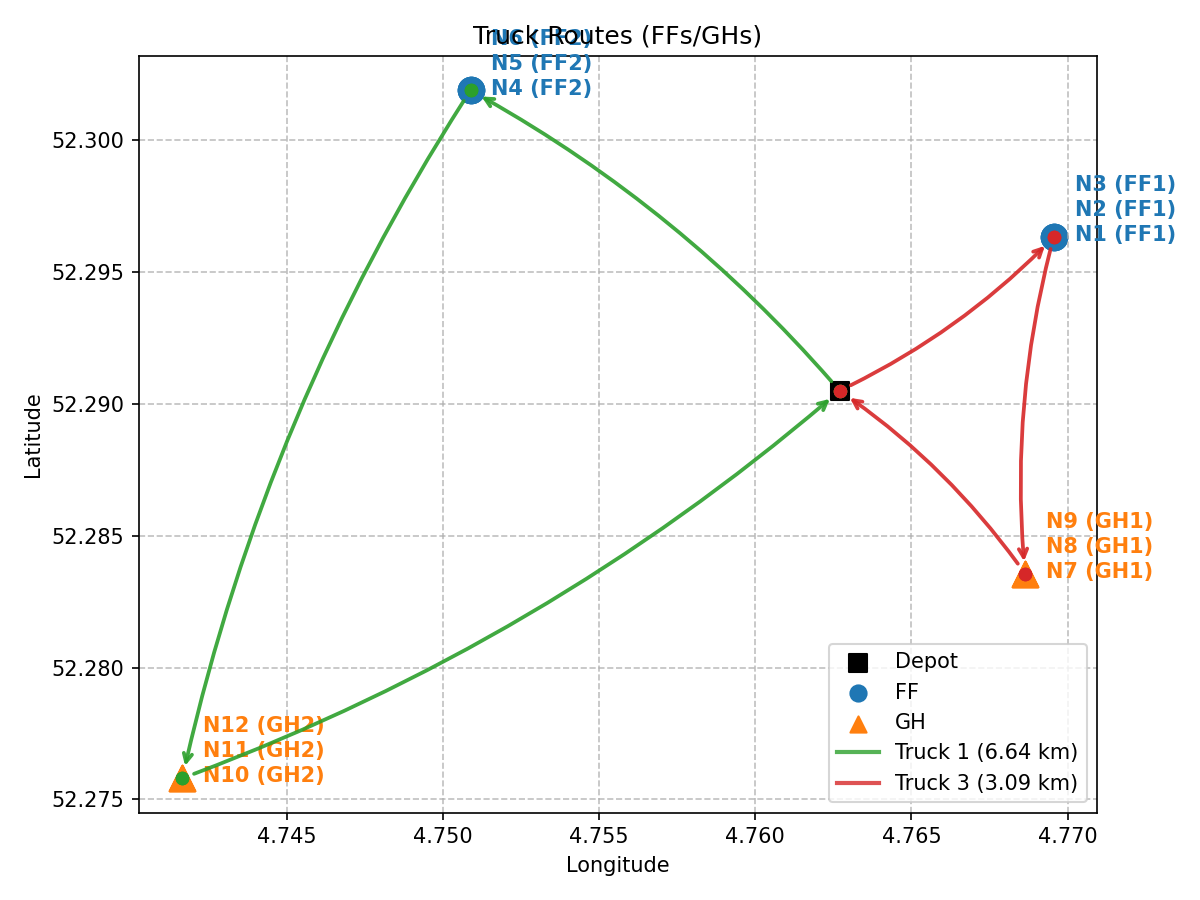
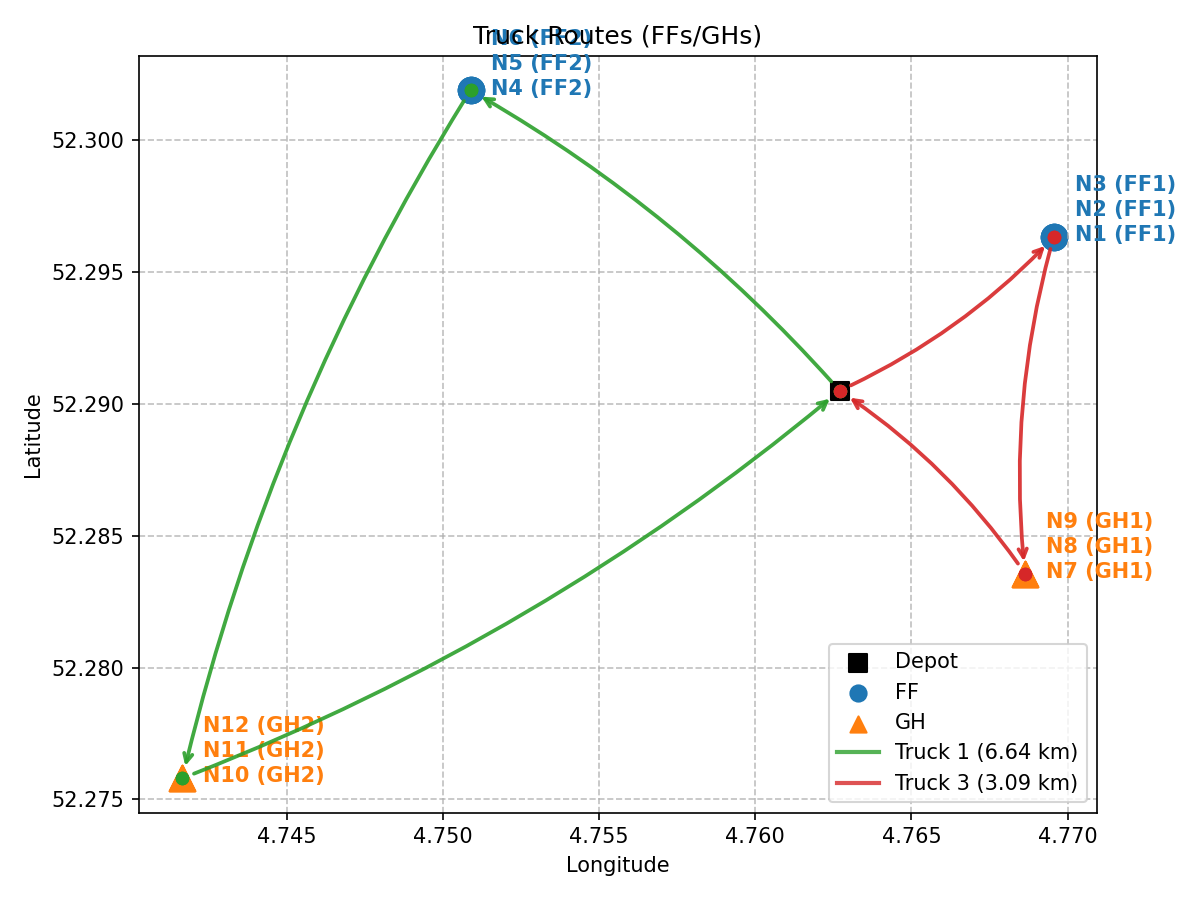
fixed curvature in route plotting

diff --git a/FINAL_MAIN.py b/FINAL_MAIN.py
@@ -60,87 +60,79 @@ def plot_routes(routes: Dict[int, List[int]], node_coords: List[List[float]], ff
     depot = node_coords[0]
     ax.scatter(depot[1], depot[0], c="black", s=80, marker="s", label="Depot")
 
-    # Plot FFs and GHs
-    def _node_label_offset(node_idx: int, total_nodes: int, base_x: int, base_y: int):
-        if total_nodes <= 1:
-            return (base_x, base_y)
-        spread = 12
-        centered_rank = node_idx - (total_nodes - 1) / 2
-        return (base_x, base_y + int(centered_rank * spread))
+    def _node_xy(node_idx: int):
+        return node_coords[node_idx][1], node_coords[node_idx][0]
 
-    for f, nodes in ff_nodes.items():
-        total_nodes = len(nodes)
-        for node_idx, i in enumerate(nodes):
-            offset_xy = _node_label_offset(node_idx, total_nodes, 10, 10)
-            ax.scatter(node_coords[i][1], node_coords[i][0], c="#1f77b4", s=150, marker="o")
-            ax.annotate(
-                f"N{i} (FF{f})",
-                xy=(node_coords[i][1], node_coords[i][0]),
-                xytext=offset_xy,
-                textcoords="offset points",
-                fontsize=10,
-                color="#1f77b4",
-                weight="bold",
-            )
-    for g, nodes in gh_nodes.items():
-        total_nodes = len(nodes)
-        for node_idx, i in enumerate(nodes):
-            offset_xy = _node_label_offset(node_idx, total_nodes, 10, 10)
-            ax.scatter(node_coords[i][1], node_coords[i][0], c="#ff7f0e", s=150, marker="^")
-            ax.annotate(
-                f"N{i} (GH{g})",
-                xy=(node_coords[i][1], node_coords[i][0]),
-                xytext=offset_xy,
-                textcoords="offset points",
-                fontsize=10,
-                color="#ff7f0e",
-                weight="bold",
-            )
+    def _node_label_offset(node_idx: int, total_nodes: int, base_x: int = 10, base_y: int = 10):
+        if total_nodes <= 1:
+            return base_x, base_y
+        centered_rank = node_idx - (total_nodes - 1) / 2
+        return base_x, base_y + int(centered_rank * 12)
+
+    def _plot_facility_nodes(node_groups: Dict[int, List[int]], prefix: str, color: str, marker: str):
+        for group_id, nodes in node_groups.items():
+            total_nodes = len(nodes)
+            for node_idx, node in enumerate(nodes):
+                xy = _node_xy(node)
+                ax.scatter(xy[0], xy[1], c=color, s=150, marker=marker)
+                ax.annotate(
+                    f"N{node} ({prefix}{group_id})",
+                    xy=xy,
+                    xytext=_node_label_offset(node_idx, total_nodes),
+                    textcoords="offset points",
+                    fontsize=10,
+                    color=color,
+                    weight="bold",
+                )
+
+    _plot_facility_nodes(ff_nodes, "FF", "#1f77b4", "o")
+    _plot_facility_nodes(gh_nodes, "GH", "#ff7f0e", "^")
 
     ax.scatter([], [], c="#1f77b4", s=60, marker="o", label="FF")
     ax.scatter([], [], c="#ff7f0e", s=60, marker="^", label="GH")
 
     edge_to_trucks = {}
     for k, route in routes.items():
-        if len(route) < 2:
-            continue
-        for start_idx in range(len(route) - 1):
-            edge = (route[start_idx], route[start_idx + 1])
-            if edge not in edge_to_trucks:
-                edge_to_trucks[edge] = set()
-            edge_to_trucks[edge].add(k)
+        for edge in zip(route, route[1:]):
+            edge_to_trucks.setdefault(edge, set()).add(k)
+
+    base_rad = 0.09
+    truck_spread = 0.015
+    edge_spread = 0.04
+    max_rad = 0.6
+
+    truck_ids_sorted = sorted(routes)
+    truck_center = (len(truck_ids_sorted) - 1) / 2.0
+    truck_bias = {
+        truck_id: (idx - truck_center) * truck_spread
+        for idx, truck_id in enumerate(truck_ids_sorted)
+    }
 
     edge_curvature_by_truck = {}
     for edge, trucks_on_edge in edge_to_trucks.items():
         truck_order = sorted(trucks_on_edge)
-        n_trucks = len(truck_order)
-        base_rad = 0.09
-        if n_trucks == 1:
-            edge_curvature_by_truck[(edge, truck_order[0])] = base_rad
-            continue
-        spread = 0.04
-        center = (n_trucks - 1) / 2.0
+        center = (len(truck_order) - 1) / 2.0
         for pos, truck_id in enumerate(truck_order):
-            rad = base_rad + (pos - center) * spread
-            edge_curvature_by_truck[(edge, truck_id)] = max(-0.6, min(0.6, rad))
+            rad = base_rad + truck_bias.get(truck_id, 0.0) + (pos - center) * edge_spread
+            edge_curvature_by_truck[(edge, truck_id)] = max(-max_rad, min(max_rad, rad))
 
     colors = ["#2ca02c", "#d62728", "#9467bd", "#8c564b", "#e377c2", "#7f7f7f"]
     for idx, (k, route) in enumerate(routes.items()): #Each Truck K follows a specific route 
-        if len(route) < 2:
+        segments = list(zip(route, route[1:]))
+        if not segments:
             continue
         color = colors[idx % len(colors)]
         route_distance_km = sum(
-            get_dist(node_coords[route[pos]], node_coords[route[pos + 1]]) for pos in range(len(route) - 1)
+            get_dist(node_coords[i], node_coords[j]) for i, j in segments
         )
-        xs = [node_coords[i][1] for i in route]
-        ys = [node_coords[i][0] for i in route]
+        route_xy = [_node_xy(node) for node in route]
+        xs = [xy[0] for xy in route_xy]
+        ys = [xy[1] for xy in route_xy]
         ax.plot([], [], color=color, linewidth=2, label=f"Truck {k} ({route_distance_km:.2f} km)", alpha=0.8)
         ax.scatter(xs, ys, color=color, s=30)
-        for start_idx in range(len(route) - 1):
-            i = route[start_idx]
-            j = route[start_idx + 1]
-            x0, y0 = node_coords[i][1], node_coords[i][0]
-            x1, y1 = node_coords[j][1], node_coords[j][0]
+        for i, j in segments:
+            x0, y0 = _node_xy(i)
+            x1, y1 = _node_xy(j)
             rad = edge_curvature_by_truck.get(((i, j), k), 0.09)
             ax.annotate(
                 "",
